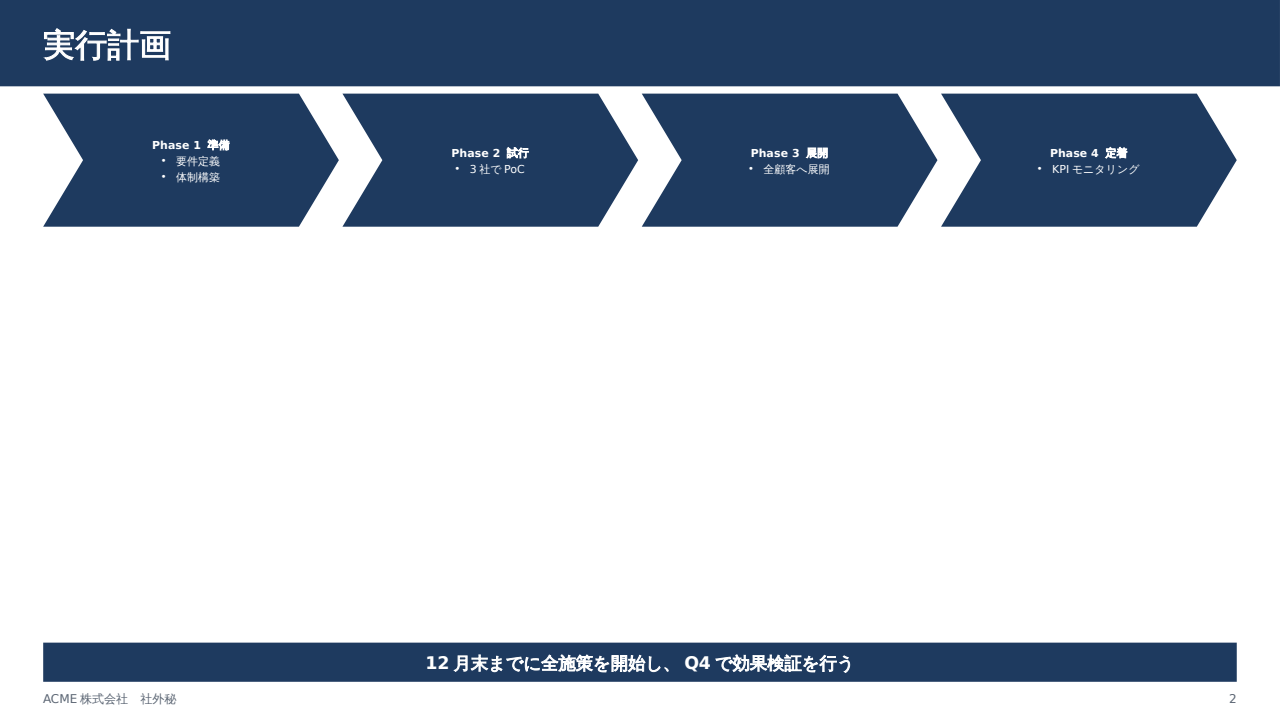
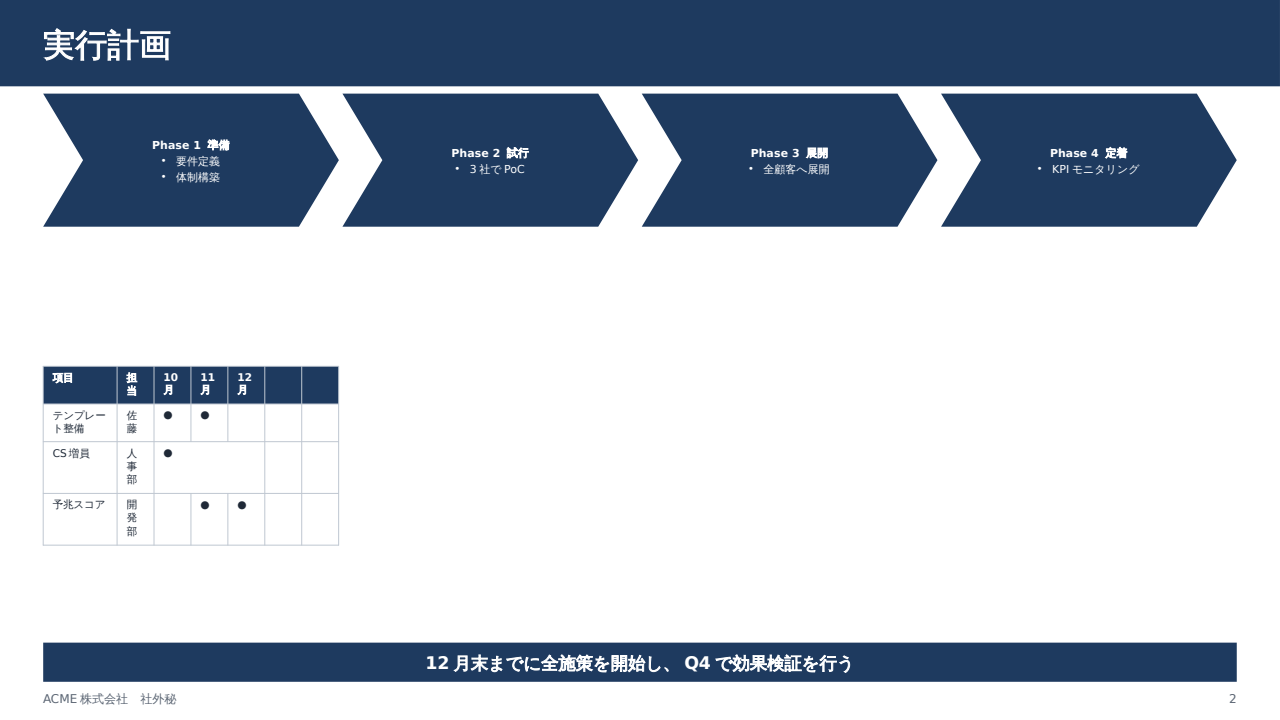
Day 2: merge lanes, golden images, gallery, bench, docs
Claude-Session: https://claude.ai/code/session_013FpLh3Y4wgvvxv6PToA5hV

Changed region(s): [[0.0312, 0.4889, 0.2812, 0.7639], [0.1562, 0.6722, 0.2188, 0.7028]]

diff --git a/docs/LESSONS.md b/docs/LESSONS.md
@@ -17,3 +17,11 @@ One line per item: `[area] problem → fix`. Newest at the bottom. Read before s
 - [render] python-pptx has no data labels for XY series, and `XY_SCATTER` renders as lines unless series line is no-fill.
 - [layout] Parser emits rectangular tables (covered cells = empty placeholders) while hand-built IR may omit them → `table_grid` handles both.
 - [parser] Content after the last `##` of a slide is a child of that box (a table after chevron boxes vanishes) → needs an explicit box terminator (day 2).
+- [layout] Kinsoku: push the previous char down instead of hanging punctuation, and write `hangingPunct="0"` so measurement matches the render.
+- [layout] Footnotes were not autofitted and could eat the body → capped at 20% of slide height. A chevron shape only carries text → non-text children are placed under it as separate items.
+- [render] `.zebra` needs a body-fill/surface blend because the default header fill equals `surface`.
+- [parser] A pre-pass that blanks or rewrites lines in place (never deletes) keeps diagnostic line numbers and the fence map valid.
+- [tests] Hypothesis tests need a module-level temp dir, not the `tmp_path` fixture.
+- [parser] Marp `![w:200]` maps to `{w=200}` = 200 pt, not px (use `w=200px` if fidelity matters).
+- [env] Fresh container needs `apt-get install -y libreoffice-impress` before preview/golden tests (did it on day 2).
+- [tests] Golden thumbnails: regenerate with `SLIDEMARK_UPDATE_GOLDEN=1 pytest tests/test_golden.py`; token gate in `bench/BASELINE.json`.

diff --git a/docs/PLAN.md b/docs/PLAN.md
@@ -86,7 +86,8 @@ daily routine keeps climbing L4 → L7, picking the unchecked gates with the bes
 - [x] Merge, end-to-end test, README gallery, bench
 
 ## Day 1 leftovers (carried to day 2)
-- [ ] Table/`>` after the last `##` box become children of that box and (in a chevron box) vanish: add a way to end a box + diagnostic when a visual is dropped (found in `examples/02-jp-dense.md` slide 2)
+- [x] Box terminator `@end` + `dropped-content` diagnostic (day 2)
+- [ ] Slide-level table after an `@end` (with `chevron` grid) is placed in ONE grid cell, cramped; slide-level visuals should get their own full-width row below the grid (jp-dense slide 2)
 
 ## Day 2 work packages (incl. day 1 leftover)
 - **A: parser + CLI** (`src/slidemark/parser/`, `src/slidemark/cli.py`, `tests/test_parser*.py`, `tests/test_cli.py`):
@@ -108,8 +109,8 @@ daily routine keeps climbing L4 → L7, picking the unchecked gates with the bes
   + token gate test (fail if slidemark tokens regress >3%), examples, gallery, docs.
 
 ## Day 2 status
-- [ ] Contract: `@end` in SYNTAX.md
-- [ ] A: lenient parsing + hints + `@end` + fuzz
-- [ ] B: dropped-content diag, autofit/kinsoku, table styling, image cover
-- [ ] Orchestrator: golden images, BASELINE.json token gate
-- [ ] Merge, gallery, bench
+- [x] Contract: `@end` in SYNTAX.md
+- [x] A: lenient parsing + hints + `@end` + fuzz
+- [x] B: dropped-content diag, autofit/kinsoku, table styling, image cover
+- [x] Orchestrator: golden images, BASELINE.json token gate
+- [x] Merge, gallery, bench

diff --git a/docs/DAILY_LOG.md b/docs/DAILY_LOG.md
@@ -14,3 +14,9 @@ Newest at the bottom. ≤ 10 lines per day: done · metrics · problems · next.
 - Metrics: tests 150 passed / 1 skipped; q3 deck 155 tokens = 30% of python-pptx (518), 48% of HTML (321); jp-dense 482 vs HTML 828 (58%); unchanged vs day 0.
 - Problems: sandbox lacked libreoffice-impress (installed via apt); parser/layout disagreed on merged-cell shape (fixed in layout); a table after the last `##` is swallowed into that box (jp-dense slide 2 table missing from render).
 - Next: finish day 1 leftover (box terminator), then day 2 (lenient parsing, real font metrics, golden images, CI token gate).
+
+## 2026-10-05 (day 2, manual run)
+- Done: `@end` box terminator (day 1 leftover); lenient parsing (Marp/Slidev/Note:) with difflib hints + fuzz (A); chevron non-text children, footnote autofit, kinsoku, zebra tables (B); golden image test, BASELINE.json token gate (orchestrator).
+- Metrics: tests 196 passed / 1 skipped; q3 deck 155 tokens = 30% of python-pptx, 48% of HTML; jp-dense 482 vs HTML 828 (58%); unchanged vs day 1.
+- Problems: libreoffice-impress had to be apt-installed again; jp-dense slide 2 table now renders but is squeezed into one grid cell.
+- Next: slide-level visuals below a chevron/grid row, day 3 (components, dense JP, connectors).

diff --git a/docs/TARGETS.md b/docs/TARGETS.md
@@ -28,7 +28,7 @@ Token ratios are measured against the python-pptx baseline of the same deck (`be
 - [ ] Autofit with real font metrics: 0 overflow on all examples; overflow diagnostic when below `min_font_size`
 - [ ] CJK correct: `<a:ea>` font set, full-width measurement, no broken line wrapping in JP examples
 - [ ] ≥ 3 polished themes (light, dark, `jp-business` dense)
-- [ ] Golden image tests catch any visual regression
+- [x] Golden image tests catch any visual regression (tests/test_golden.py)
 
 ## L3: Dense & rich (target: day 7, end of foundation)
 - [ ] Dense JP slide set (≥ 8 slides: 3–4 column boxes, KPI tables, process arrows, lead line, ※ footnotes,

diff --git a/README.md b/README.md
@@ -32,7 +32,7 @@ Cú pháp đầy đủ: [docs/SYNTAX.md](docs/SYNTAX.md).
 ## Ảnh slide mẫu (cập nhật hằng ngày)
 
 <!-- gallery:start -->
-Cập nhật: 2026-10-04 · commit `6c9c317` · tạo tự động bởi `scripts/gallery.py`.
+Cập nhật: 2026-10-05 · commit `bd9d7f8` · tạo tự động bởi `scripts/gallery.py`.
 
 ### Cơ bản: tiêu đề, danh sách, box, bảng, biểu đồ
 
